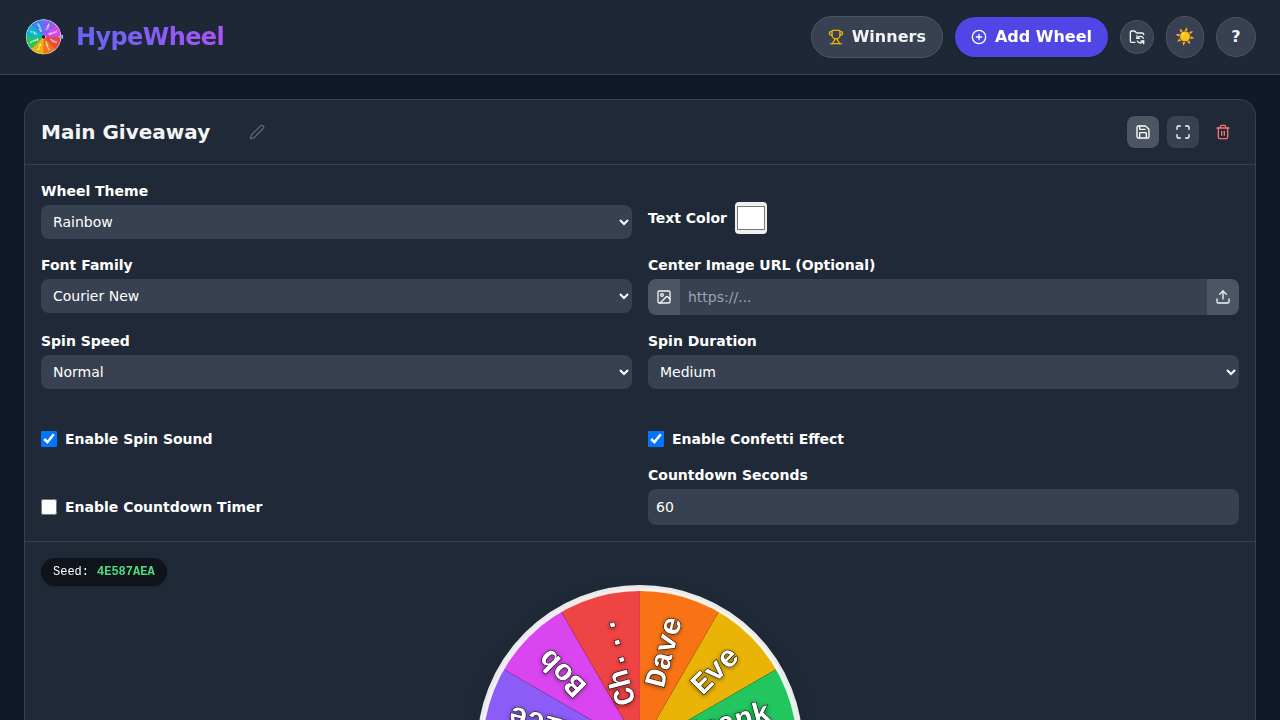
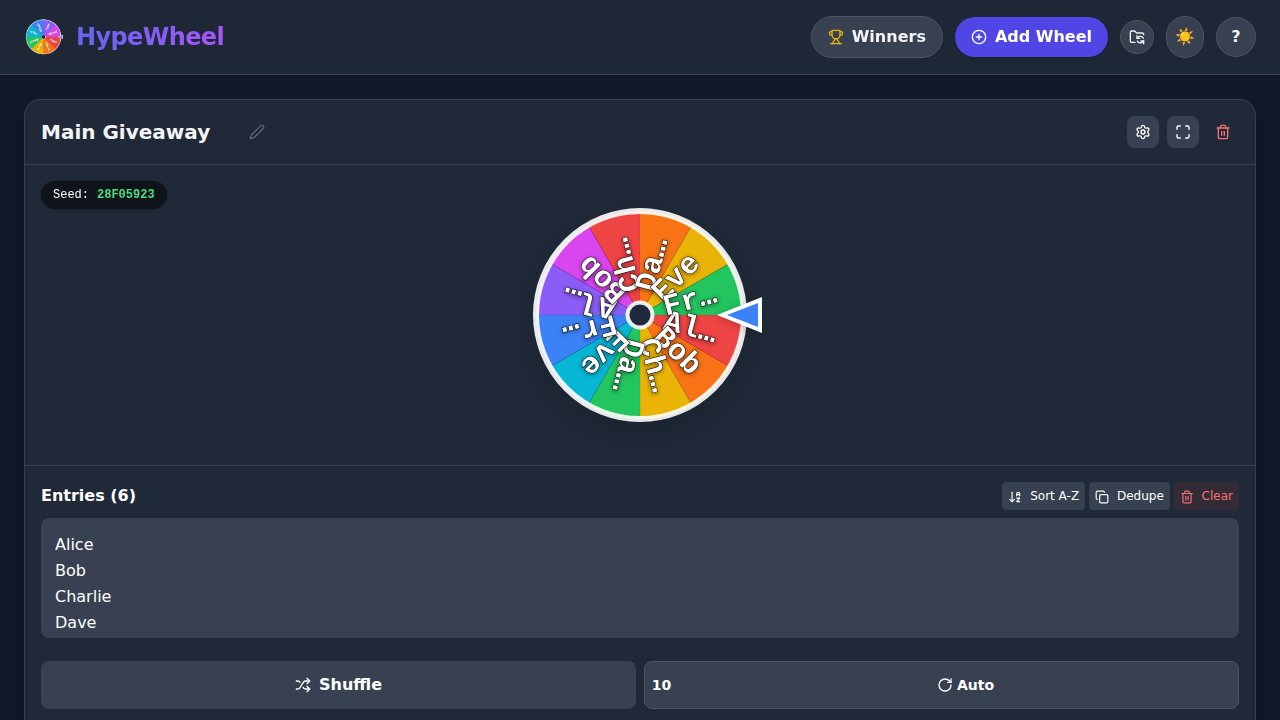
Fix text truncation by using a single ellipsis character
Using "..." takes up a lot of horizontal space, especially in
monospace fonts like Courier New, leading to names disappearing
because the available width couldn't fit the dots. Replacing
"..." with "…" fixes this by taking up significantly less width
and gracefully displaying truncated labels.

diff --git a/index.html b/index.html
@@ -1359,12 +1359,12 @@
               if (ctx.measureText(displayString).width > availableWidth) {
                 while (
                   displayString.length > 0 &&
-                  ctx.measureText(displayString + "...").width > availableWidth
+                  ctx.measureText(displayString + "…").width > availableWidth
                 ) {
                   displayString = displayString.slice(0, -1);
                 }
                 displayString =
-                  displayString.length > 0 ? displayString + "..." : "";
+                  displayString.length > 0 ? displayString + "…" : "";
               }
               return displayString;
             });

diff --git a/test_font2.py b/test_font2.py
@@ -1,0 +1,41 @@
+import sys
+from playwright.sync_api import sync_playwright
+
+def main():
+    with sync_playwright() as p:
+        browser = p.chromium.launch()
+        page = browser.new_page()
+        page.goto("http://localhost:3000")
+        page.wait_for_selector("canvas")
+
+        # Test original logic
+        res = page.evaluate("""
+            (() => {
+                const canvas = document.createElement('canvas');
+                const ctx = canvas.getContext('2d');
+                ctx.font = '800 30px "Courier New", sans-serif';
+                const availableWidth = 70.6;
+                let text = "Alice";
+                let displayString = text;
+                if (ctx.measureText(displayString).width > availableWidth) {
+                  while (
+                    displayString.length > 0 &&
+                    ctx.measureText(displayString + "…").width > availableWidth
+                  ) {
+                    displayString = displayString.slice(0, -1);
+                  }
+                  displayString = displayString.length > 0 ? displayString + "…" : "";
+                }
+                return {
+                    "Alice_original": displayString,
+                    "Alice_width": ctx.measureText("Alice").width,
+                    "dots_width": ctx.measureText("…").width,
+                    "Bob_width": ctx.measureText("Bob").width
+                };
+            })()
+        """)
+        print(res)
+        browser.close()
+
+if __name__ == "__main__":
+    main()

diff --git a/test_font_user.py b/test_font_user.py
@@ -7,20 +7,22 @@ def main():
         page = browser.new_page()
         page.goto("http://localhost:3000")
 
-        # We need to simulate the environment or just run the page
-        # Let's wait for the wheel to render
+        # We need to dismiss the Quick Start Guide
+        page.evaluate("localStorage.setItem('hideQuickStart', 'true');")
+        page.reload()
+
         page.wait_for_selector("canvas")
 
         page.evaluate("""
             const inst = wheelInstances[0];
             inst.fontFamily = "Courier New";
-            inst.rawText = "Alice\\nBob\\nCharlie\\nDave\\nEve\\nFrank";
+            inst.rawText = "Alice\\nBob\\nCharlie\\nDave\\nEve\\nFrank\\nBob\\nEve";
             inst.entries = inst.parseEntries(inst.rawText);
             inst.draw();
         """)
 
-        page.screenshot(path="screenshot_before.png")
-        print("Screenshot saved to screenshot_before.png")
+        page.screenshot(path="screenshot_user.png")
+        print("Screenshot saved to screenshot_user.png")
         browser.close()
 
 if __name__ == "__main__":

diff --git a/test_font3.py b/test_font3.py
@@ -1,0 +1,28 @@
+import sys
+from playwright.sync_api import sync_playwright
+
+def main():
+    with sync_playwright() as p:
+        browser = p.chromium.launch()
+        page = browser.new_page()
+        page.goto("http://localhost:3000")
+        page.wait_for_selector("canvas")
+
+        # Test original logic
+        res = page.evaluate("""
+            (() => {
+                const canvas = document.createElement('canvas');
+                const ctx = canvas.getContext('2d');
+                ctx.font = '800 30px "Courier New", sans-serif';
+                return {
+                    "dots_width": ctx.measureText("...").width,
+                    "ellipsis_width": ctx.measureText("…").width,
+                    "Alice_width": ctx.measureText("Alice").width
+                };
+            })()
+        """)
+        print(res)
+        browser.close()
+
+if __name__ == "__main__":
+    main()

diff --git a/test_font_close.py b/test_font_close.py
@@ -7,8 +7,10 @@ def main():
         page = browser.new_page()
         page.goto("http://localhost:3000")
 
-        # We need to simulate the environment or just run the page
-        # Let's wait for the wheel to render
+        # We need to dismiss the Quick Start Guide
+        page.evaluate("localStorage.setItem('hideQuickStart', 'true');")
+        page.reload()
+
         page.wait_for_selector("canvas")
 
         page.evaluate("""
@@ -19,8 +21,8 @@ def main():
             inst.draw();
         """)
 
-        page.screenshot(path="screenshot_before.png")
-        print("Screenshot saved to screenshot_before.png")
+        page.screenshot(path="screenshot_after.png")
+        print("Screenshot saved to screenshot_after.png")
         browser.close()
 
 if __name__ == "__main__":
